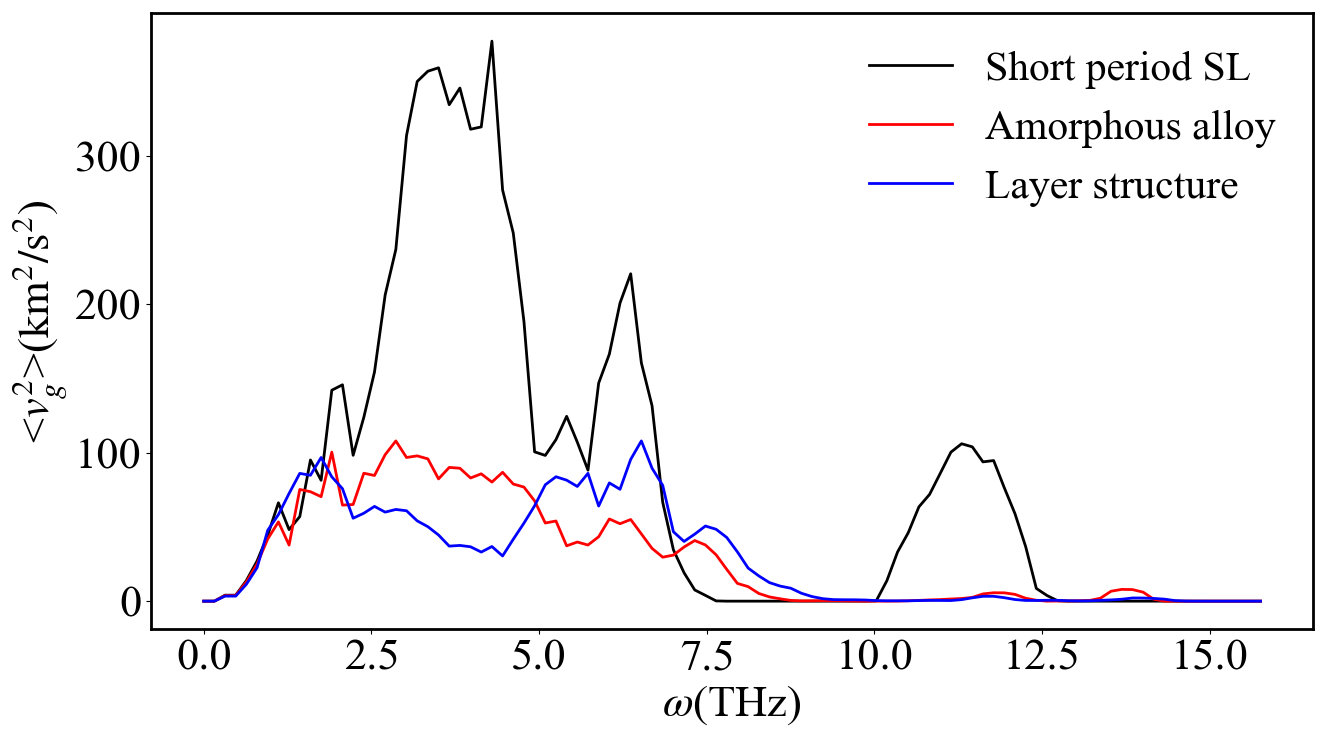
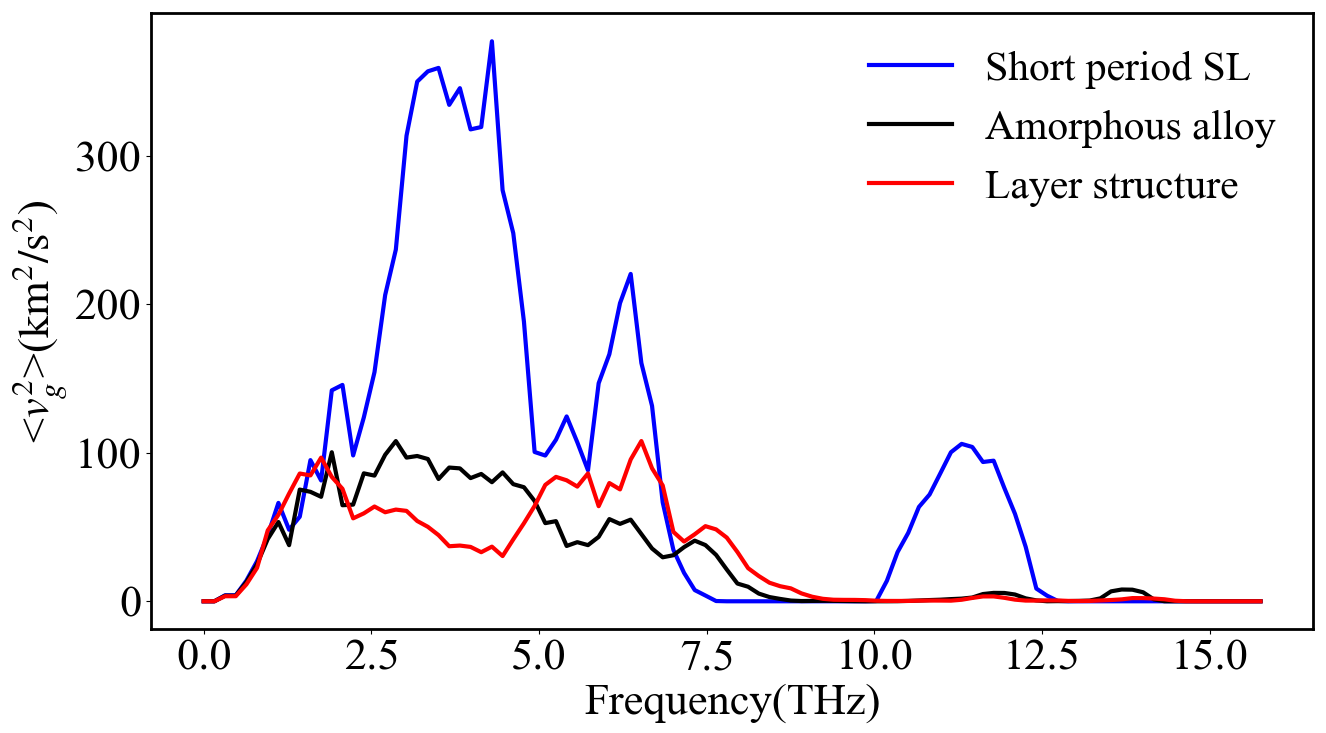
modify fig configs

diff --git a/DOS-2cell.py b/DOS-2cell.py
@@ -4,6 +4,7 @@ import numpy as np
 import math as m
 import sys
 import os
+import matplotlib.ticker as ticker
 
 lib_path = os.path.abspath(os.path.join('./config'))
 sys.path.append(lib_path)
@@ -22,7 +23,6 @@ else:
 	configs = config.configs211cellDos
 	print('请输入2cell或者421cell，默认为2cell')
 
-
 pathFile = configs['pathFile']
 path_list=configs['path_list']
 case_name_list=configs['case_name_list']
@@ -30,13 +30,6 @@ case_colors = configs['case_colors']
 lineList=configs['line']
 linewidthList=configs['linewidth']
 
-# plt.rc('font',family='Times New Roman')
-# plt.rcParams['mathtext.fontset'] = 'stix'
-
-# path_list=configs['path_list']
-# case_name_list=configs['case_name_list']
-
-# font={'size':'35', 'weight':'normal'}
 plt.figure(figsize=(8,9))
 ax_d = plt.subplot(1,1,1)
 plt.subplots_adjust(left=0.3, bottom=0.1, right=0.8, top=0.9)
@@ -54,11 +47,11 @@ for i in range(len(path_list)):
 	# plot part
 	############
 	ax_d.plot(DOS,omegaTHZ,line , color=color, linewidth = linewidth, label=case_name)
+	ax_d.legend(loc="center right", bbox_to_anchor=(1.05, 0.3), frameon=False)
 	ax_d.set_xlabel('DOS')
 	ax_d.set_xlim(0, 1200)
-	ax_d.set_ylim(2, 16)
+	ax_d.set_ylim(1, 16.224090)
+	ax_d.set_xticklabels(configs['xAxis'])
+	ax_d.yaxis.set_major_locator(ticker.MultipleLocator(5))
 
-plt.yticks(size=30)
-plt.xticks(size=0)
-#plt.show()
 plt.savefig(pathFile+'/Dos.png',bbox_inches='tight')

diff --git a/k.py b/k.py
@@ -15,21 +15,22 @@ import config
 
 params = configPlot.params
 pylab.rcParams.update(params)
-configs = config.configs211cell
+configs = config.configs211cellGv
 
+pathFile = configs['pathFile']
 path_list=configs['path_list']
 case_name_list=configs['case_name_list']
-
-# plt.rc('font',family='Times New Roman')
-
-# path_list=['macplot/ShortperiodSL/','macplot/Amorphousalloy/','macplot/Layerstructure/']
-# case_name_list=['Short period SL','Amorphous alloy','Layered structure']
+case_colors = configs['case_colors']
+lineList=configs['line']
+linewidthList=configs['linewidth']
 
 ax_k = plt.subplot(1,1,1)
 for i in range(len(path_list)):
-	path=path_list[i]
-	case_name=case_name_list[i]
-
+	path = path_list[i]
+	case_name = case_name_list[i]
+	color = case_colors[i]
+	line = lineList[i]
+	linewidth = linewidthList[i]
 	omega=np.loadtxt(path+'simplifiedOmega')
 	k=np.loadtxt(path+'dosWeighedK')
 
@@ -37,8 +38,9 @@ for i in range(len(path_list)):
 	###########
 	# plot part
 	############
-	ax_k.plot(omegaTHZ,k,'-',label=case_name)
-	ax_k.set_xlabel(r'$\omega$' +'(THz)')
+	ax_k.plot(omegaTHZ, k, line, color=color, linewidth=linewidth, label=case_name)
+	# ax_k.plot(omegaTHZ,k,'-',label=case_name)
+	ax_k.set_xlabel('Frequency' +'(THz)')
 	ax_k.set_ylabel(r'$k$'+'(W/(m-K))')
 	print(case_name,":",sum(k))
 plt.savefig('2cellThreeTypicalStructure'+'/K.png', bbox_inches='tight')

diff --git a/config/config.py b/config/config.py
@@ -5,9 +5,9 @@ configs211cellGv = {
                   '2cellThreeTypicalStructure/macplot/Amorphousalloy/',
                   '2cellThreeTypicalStructure/macplot/Layerstructure/'],
     'case_name_list': ['Short period SL','Amorphous alloy','Layer structure'],
-    'case_colors': ['black', 'red', 'blue'],
+    'case_colors': ['blue', 'black', 'red'],
     'line': ['-', '-', '-'],
-    'linewidth': [2, 2, 2]
+    'linewidth': [3, 3, 3]
 }
 
 configs211cellDos = {
@@ -15,8 +15,9 @@ configs211cellDos = {
     'path_list': ['2cellThreeTypicalStructure/macplot/ShortperiodSL/',
                   '2cellThreeTypicalStructure/macplot/Amorphousalloy/',
                   '2cellThreeTypicalStructure/macplot/Layerstructure/'],
-    'case_name_list': ['Short period SL', 'Amorphous alloy', 'Layer structure'],
-    'case_colors': ['black', 'red', 'blue'],
+    'case_name_list': ['Short\n period SL', 'Amorphous\n alloy', 'Layer\n structure'],
+    'case_colors': ['blue', 'black', 'red'],
+    'xAxis': [],
     'line': ['-', '-', '-'],
     'linewidth': [2, 2, 2]
 }

diff --git a/gv.py b/gv.py
@@ -49,6 +49,6 @@ for i in range(len(path_list)):
     ax_g.plot(omegaTHZ,gv,line ,color=color,linewidth=linewidth,label=case_name)
     ax_g.legend(loc=0,frameon=False)
 
-ax_g.set_xlabel(r'$\omega$' +'(THz)')
+ax_g.set_xlabel('Frequency' +'(THz)')
 ax_g.set_ylabel('<'+r'$v_g^2$'+'>'+'('+r'$ \mathrm{km}^2/ \mathrm{s}^2$'+')')
 plt.savefig(pathFile + '/gv.png', bbox_inches='tight')

diff --git a/DOS-421cell.py b/DOS-421cell.py
@@ -51,7 +51,7 @@ for i in range(len(path_list)):
 
 ax_d.legend(loc=0, frameon=False)
 ax_d.set_ylabel('DOS')
-ax_d.set_xlabel(r'$\omega$' + '(THz)')
+ax_d.set_xlabel('Frequency' + '(THz)')
 # ax_d.set_xlim(0, 1200)
 # ax_d.set_ylim(2, 16)
 
